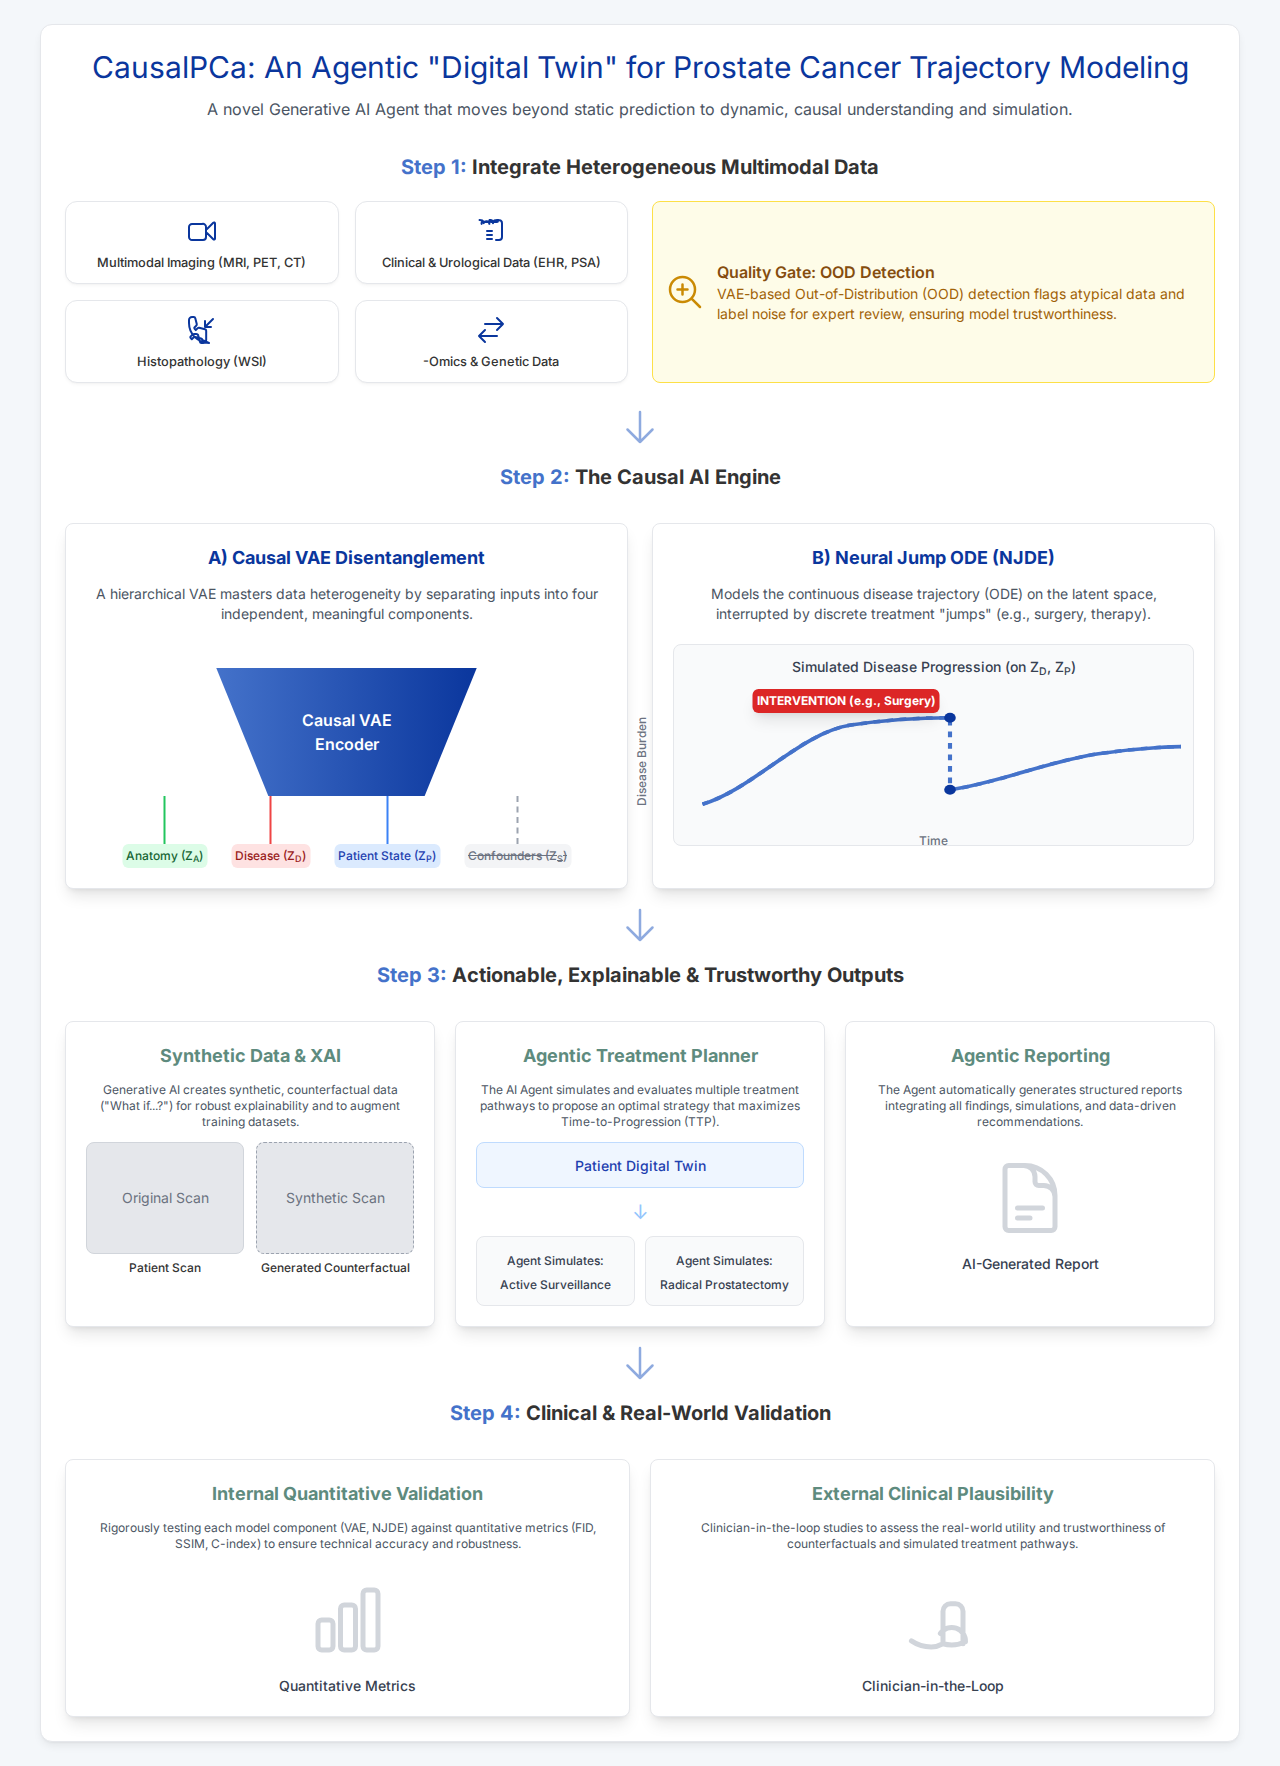
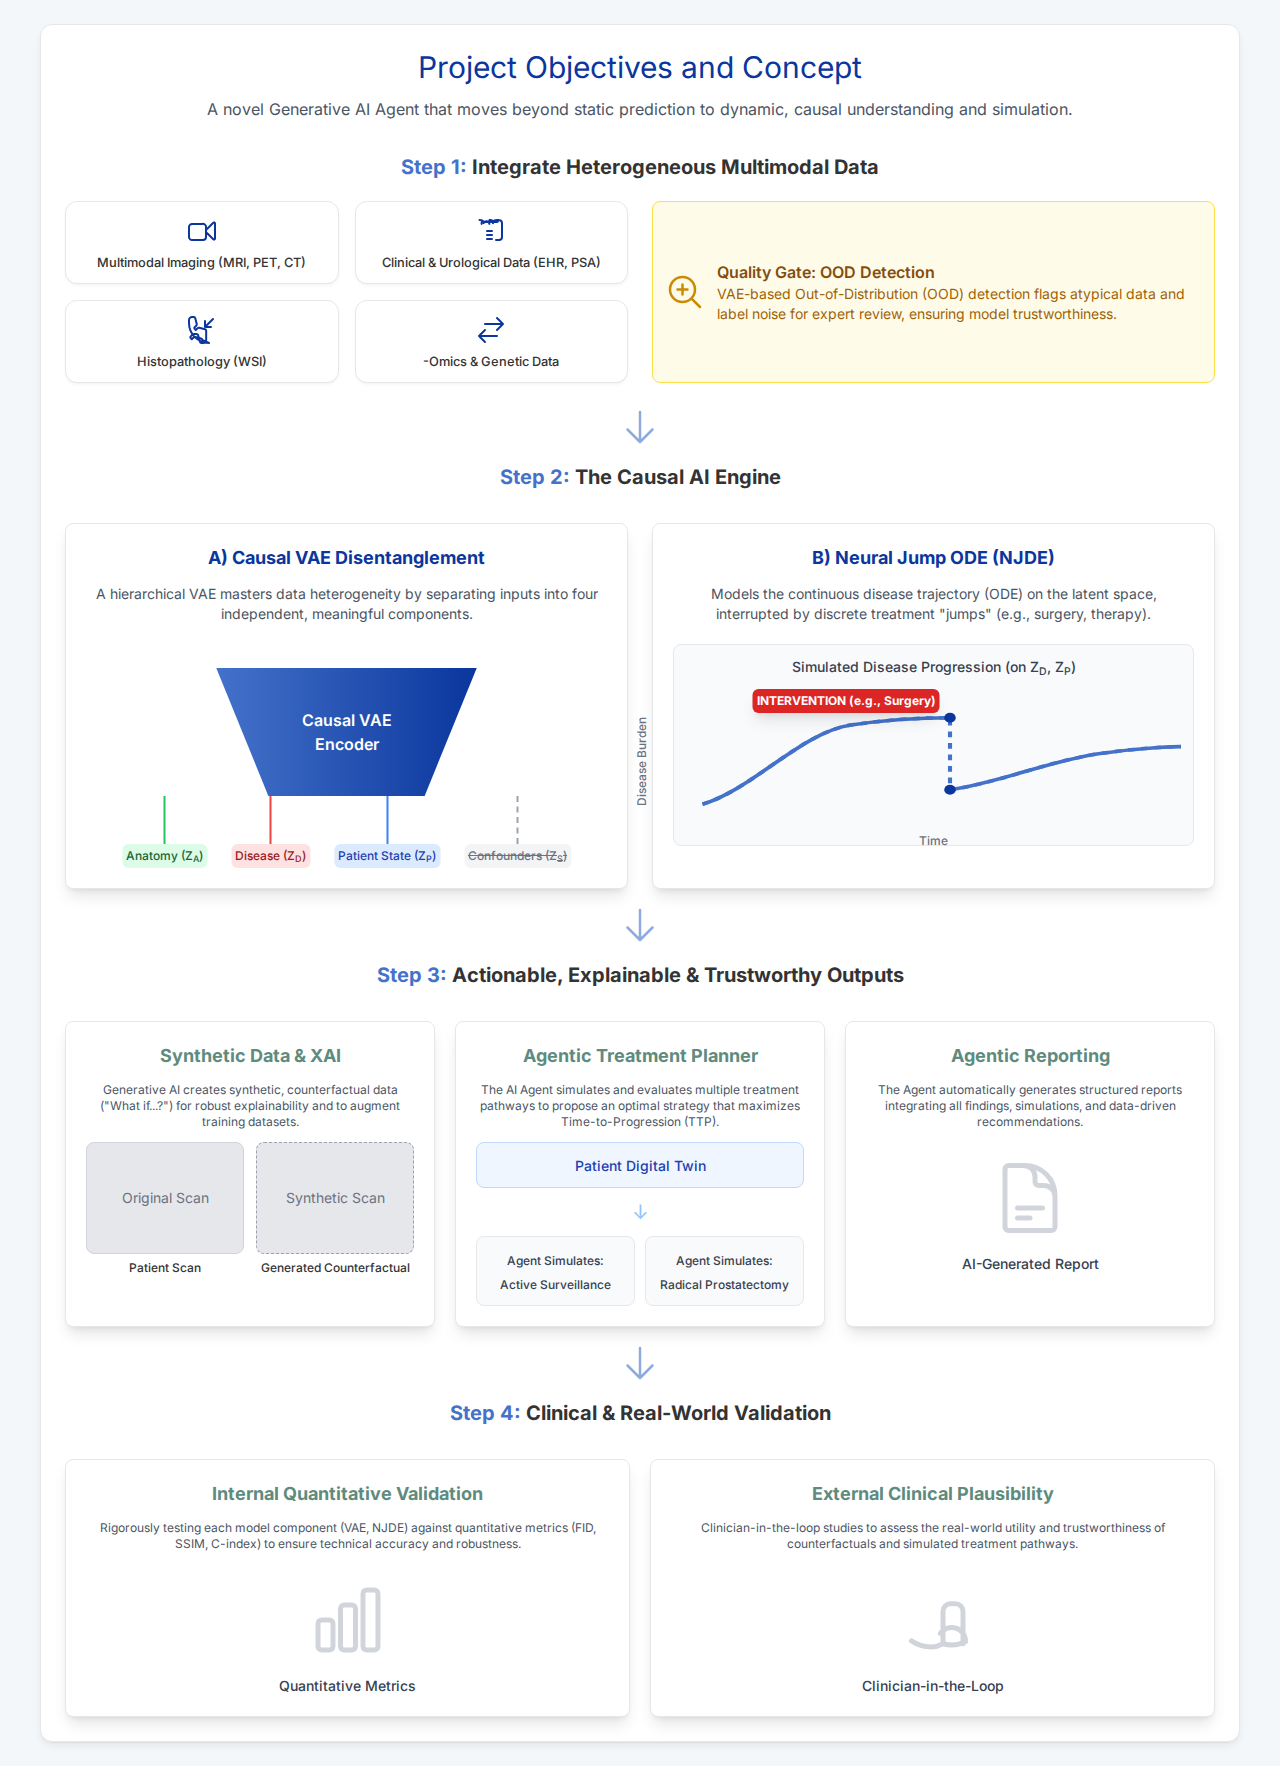
feat: Update graphical abstract title
Updates the title in graphical_abstract.html to "Project Objectives and Concept" and regenerates the corresponding PNG image.

Changed region(s): [[0.0625, 0.0311, 0.9375, 0.0623]]

diff --git a/graphical_abstract.html b/graphical_abstract.html
@@ -173,7 +173,7 @@
 
     <div class="main-container">
         <!-- 1. TITLE --><h1 class="text-2xl md:text-3xl text-center primary-text mb-3">
-            CausalPCa: An Agentic "Digital Twin" for Prostate Cancer Trajectory Modeling
+            Project Objectives and Concept
         </h1>
         <p class="text-center text-md text-gray-600 mb-8">
             A novel Generative AI Agent that moves beyond static prediction to dynamic, causal understanding and simulation.
